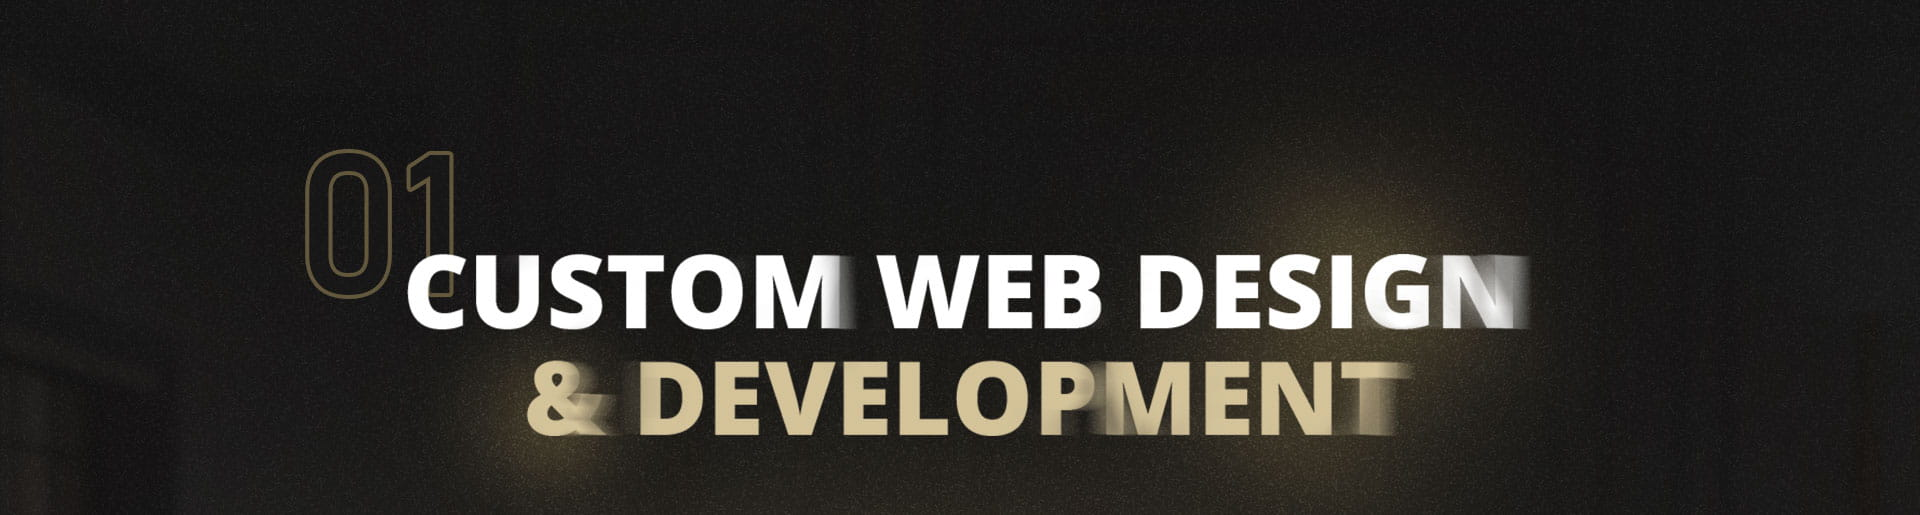
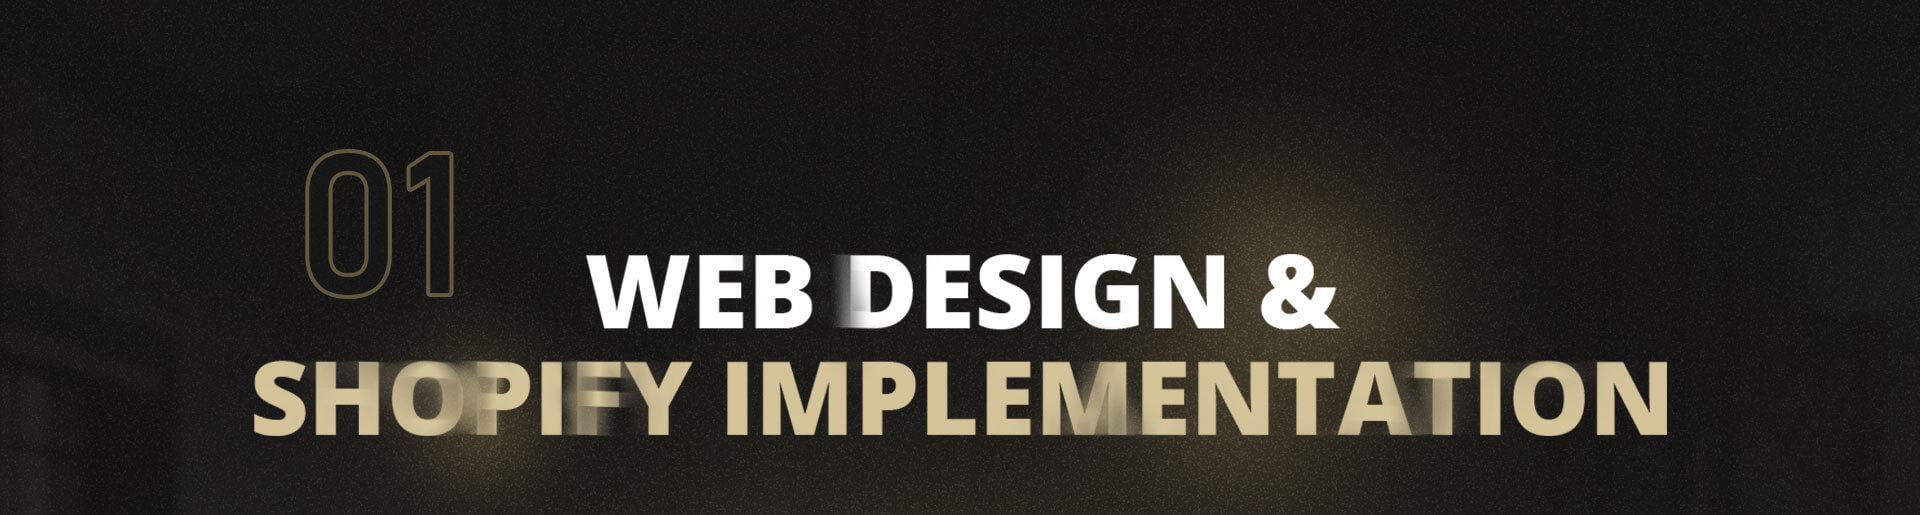
finesse update

Changed region(s): [[0.125, 0.6835, 0.875, 0.901], [0.1875, 0.466, 0.8125, 0.6524]]

diff --git a/index.html b/index.html
@@ -590,13 +590,7 @@
                       <!-- información -->
                       <div class="project-info">
                         <h3 class="text-5 text-white">Project Info:</h3>
-                        <p class="mb-0 text-white-50">Designed and optimized the Shopify storefront for Finesse Decor, focusing on improving the online shopping experience and supporting marketing campaigns.
-
-                        Created landing pages, homepage updates, and custom Shopify sections tailored to both B2B and B2C audiences, with a strong emphasis on clear structure, visual hierarchy, and brand consistency.
-
-                        Developed a wide range of marketing assets, including web banners, promotional graphics and product visuals, aligned with campaign goals and seasonal promotions.
-
-                        Focused on clarity, usability, and performance, ensuring users could easily navigate content, discover products, and take action.
+                        <p class="mb-0 text-white-50">Designed and optimized Finesse Decor’s Shopify storefront, creating custom web experiences and implementing tailored Shopify sections for both B2B and B2C audiences. Focused on clear structure, visual hierarchy, product discovery, and a consistent brand experience across the storefront. Also developed e-commerce visual assets, including promotional banners and product visuals, to support campaigns, merchandising, and seasonal initiatives.
                         </p>
                       </div>
                       <!-- información -->
@@ -619,6 +613,9 @@
                             <img src="assets/common/images/elementos-web/icon_ps.png" alt="photoshop" title="Photoshop">
                           <li>
                             <span class="text-light font-weight-600 me-2">Date:</span>2024 - 2026
+                          </li>
+                          <li>
+                            <span class="text-light font-weight-600 me-2">Scope:</span>E-commerce Web Design · Shopify Implementation · Responsive Web Design · Landing Pages · Custom Shopify Sections · E-commerce Visual Design
                           </li>
                           <li>
                             <span class="text-light font-weight-600 me-2">URL:</span>
